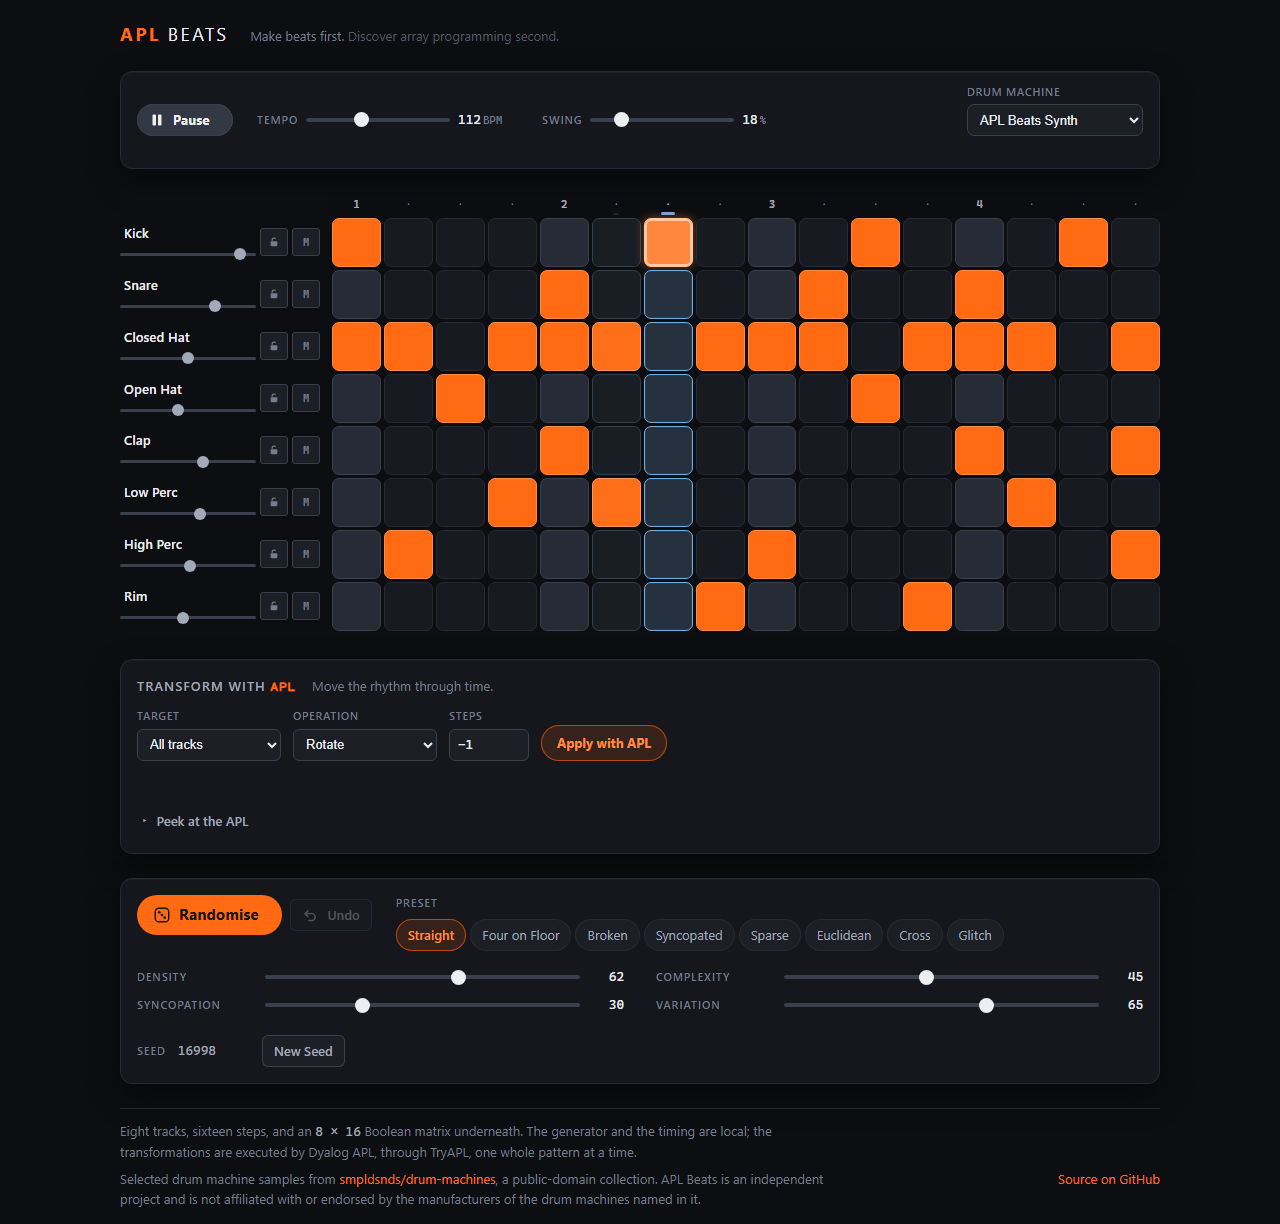
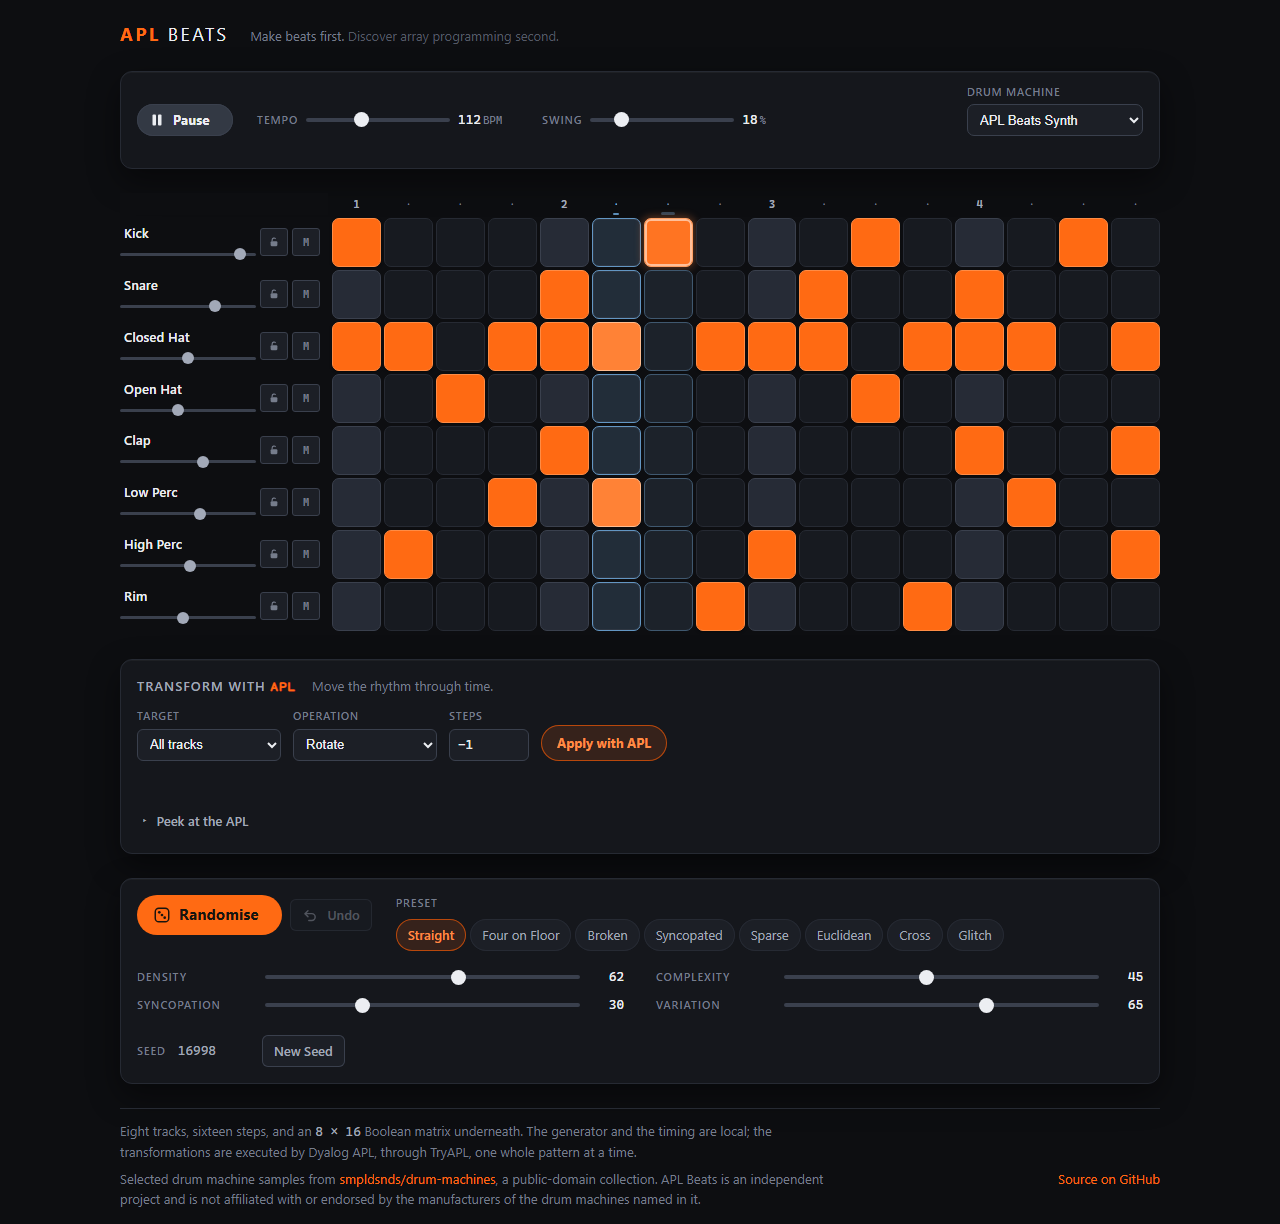
Say what Explore is, and point the live check at it
The README now describes the product as the three steps it actually is — Play, Peek, Explore —
because that progression is the whole design and burying it under a feature list would hide the
argument.

The new section is precise about the boundary: what you write, what the application still
provides, that `m` is the current rhythm and `⎕IO←0`, that the result must still be a rhythm
and is refused whole if it is not, that the errors are Dyalog's own and are shown because from
here the mistake is yours, and that nothing is sent until Run is pressed.

It also says what Explore will not do, including the one that matters most: it is not a
security sandbox and does not pretend to be one.

There is no Examples menu, and the README says why rather than leaving its absence to be
noticed. The Operation control already loads four real working expressions into the editor,
which is the same job a curated list would do; a second list beside it would be a busier panel
for no new capability. Six expressions worth trying are documented instead, and every one of
them was reviewed as a grid before being written down — `npm run review:transforms -- --explore`
prints them. `~m[2;]` puts the open hat in exactly the gaps the closed hat leaves, and
`m[0;]∧~m[1;]` builds a rim from two other rows; both keep the kick on one and the backbeat
intact, which is the test that matters.

The production verifier's single live request now goes through Explore rather than a fixed
[…]

Changed region(s): [[0.4375, 0.1552, 0.5625, 0.3105], [0.4375, 0.3415, 0.5312, 0.4346], [0.4688, 0.4657, 0.5312, 0.4967]]

diff --git a/scripts/review-transforms.ts b/scripts/review-transforms.ts
@@ -262,6 +262,107 @@ function staggerSweep(before: Pattern): void {
   console.log('');
 }
 
+/* ------------------------------------------------------------------------- */
+
+/**
+ * Hand-written expressions, reviewed the way the built-in operations were.
+ *
+ * Stage 5 lets somebody write their own APL, which raises a question no test can answer: does
+ * writing your own actually produce rhythms worth having, or only rhythms that parse? So a few
+ * representative expressions are modelled here in TypeScript and printed as grids — the same
+ * arrangement `reference.ts` uses, and for the same reason. **Nothing here runs in the
+ * application.** These are a reading aid; the real expressions go to Dyalog.
+ *
+ * They were chosen to cover the four things somebody is likely to try in their first ten
+ * minutes: change a number, build a row from a formula, build one track out of another, and
+ * combine two rows.
+ */
+interface Experiment {
+  /** The APL, exactly as it would be typed into the editor. */
+  readonly apl: string;
+  readonly target: Target;
+  readonly note: string;
+  /** What that APL means, modelled locally. Review only. */
+  readonly run: (pattern: Pattern) => readonly boolean[];
+}
+
+const rotateRow = (row: readonly boolean[], by: number): boolean[] => {
+  const n = row.length;
+  const shift = ((Math.trunc(by) % n) + n) % n;
+  return Array.from({ length: n }, (_unused, index) => row[(index + shift) % n] === true);
+};
+
+const EXPERIMENTS: readonly Experiment[] = [
+  {
+    apl: '¯2⌽m[0;]',
+    target: KICK,
+    note: 'the first experiment: change the number, and the kick moves an eighth instead of a sixteenth',
+    run: (m) => rotateRow(m[KICK] ?? [], -2),
+  },
+  {
+    apl: '0=3|⍳16',
+    target: 2,
+    note: 'a formula rather than a sample of an existing row: every third sixteenth on the hat',
+    run: () => Array.from({ length: STEP_COUNT }, (_unused, step) => step % 3 === 0),
+  },
+  {
+    apl: 'm[1;]∨2⌽m[1;]',
+    target: 4,
+    note: 'a clap built out of the snare, doubled an eighth earlier',
+    run: (m) => {
+      const snare = m[SNARE] ?? [];
+      const early = rotateRow(snare, 2);
+      return snare.map((cell, step) => cell || early[step] === true);
+    },
+  },
+  {
+    apl: 'm[0;]∧~m[1;]',
+    target: 7,
+    note: 'a rim wherever the kick plays and the snare does not — one row from two',
+    run: (m) => (m[KICK] ?? []).map((cell, step) => cell && (m[SNARE] ?? [])[step] !== true),
+  },
+  {
+    apl: '~m[2;]',
+    target: 3,
+    note: 'the open hat in the gaps the closed hat leaves: the complement of a row',
+    run: (m) => (m[2] ?? []).map((cell) => !cell),
+  },
+  {
+    apl: '16⍴1 0 0',
+    target: 6,
+    note: 'reshape a short figure to fill the bar, which is where ⍴ starts to feel useful',
+    run: () => Array.from({ length: STEP_COUNT }, (_unused, step) => step % 3 === 0),
+  },
+];
+
+function exploreReview(before: Pattern): void {
+  console.log('');
+  console.log('══ Explore: hand-written expressions');
+  console.log('');
+  console.log('  Modelled locally for reading. The real ones are executed by Dyalog.');
+  console.log('');
+  console.log('    before');
+  for (const line of gridText(
+    before,
+    TRACKS.map(() => false),
+  ))
+    console.log(line);
+  console.log(`    ${spineText(spineOf(before))}`);
+
+  for (const experiment of EXPERIMENTS) {
+    const row = experiment.run(before);
+    const track = experiment.target === 'all' ? 0 : experiment.target;
+    const after = before.map((existing, index) => (index === track ? [...row] : existing));
+
+    console.log('');
+    console.log(`  ── ${experiment.apl}   → ${targetName(experiment.target)}`);
+    console.log(`     ${experiment.note}`);
+    for (const line of gridText(after, changedRows(before, after))) console.log(line);
+    console.log(`    ${spineText(spineOf(after))}`);
+  }
+  console.log('');
+}
+
 /** A row the visitor locked, and what each operation does to it. */
 function lockReview(before: Pattern): void {
   console.log('');
@@ -291,6 +392,8 @@ const groove = createInitialGroove();
 
 if (wants('--stagger')) {
   staggerSweep(groove);
+} else if (wants('--explore')) {
+  exploreReview(groove);
 } else if (wants('--locks')) {
   lockReview(groove);
 } else {

diff --git a/README.md b/README.md
@@ -12,6 +12,16 @@ but the whole idea. A rhythm is a rectangular array, array languages are good at
 arrays — and pressing **Apply with APL** sends that matrix to real
 [Dyalog APL](https://www.dyalog.com/) and plays back the matrix that comes home.
 
+The whole product is three steps, and they are meant to be taken in order:
+
+**Play.** Make a beat. Press Randomise until one of them is yours. Choose a drum machine.
+
+**Peek.** Look at the APL behind the operation you just used. `¯1⌽m[0;]` — that line moved your
+kick, and the rhythm it moved really is an array.
+
+**Explore.** Change the line. Change `¯1` to `¯2` and run it: the kick moves an eighth instead
+of a sixteenth. Then realise the number was never the only thing you could change.
+
 > **What runs where, precisely.** Generation and timing are local TypeScript and Web Audio. The
 > four transformations are executed by Dyalog APL, remotely, via [TryAPL](https://tryapl.org/).
 > There is no local fallback for them: if APL is unavailable the transform does not happen and the
@@ -39,6 +49,7 @@ else: APL sees the same matrix whichever machine is playing it.
 
 - [What it does](#what-it-does)
 - [Transform with APL](#transform-with-apl)
+- [Explore the APL](#explore-the-apl)
 - [The generator](#the-generator)
 - [The four macros](#the-four-macros)
 - [Presets](#presets)
@@ -72,6 +83,8 @@ else: APL sees the same matrix whichever machine is playing it.
   and never the rhythm.
 - **Four transformations, executed in APL.** Rotate, Reverse, Periodic and Euclidean, on one
   track or on the whole matrix — with the expression that ran on show if you want to see it.
+- **And then you can edit that expression.** Write your own APL against the current rhythm and
+  run it. Real Dyalog, real errors, your beat.
 - **Randomise.** A new take on the groove you have, as far away as Variation allows.
 - **New Seed.** A completely new groove, ignoring Variation.
 - **Four macros** — Density, Complexity, Syncopation, Variation — each with a distinct
@@ -274,6 +287,130 @@ and a transform is not the generator: it is you, naming a row and asking for it 
 one case worth knowing about is an operation on the whole matrix, which touches every row
 including a locked one — that is what "All tracks" means, and it is the visitor's choice.
 
+## Explore the APL
+
+Peek shows you the expression. Explore lets you change it.
+
+```
+CORE APL
+
+¯1⌽m[0;]
+
+⌽ rotates an array. A negative amount moves it later…
+
+[ Edit this APL ]
+```
+
+<img src="docs/screenshot-explore.png" alt="APL Beats with the Explore editor open, showing a hand-written APL expression and a glyph strip" width="820" />
+
+Pressing that opens an editor holding **exactly** the expression Peek was displaying — not a
+teaching approximation, not a separate example. Change `¯1` to `¯2`, press **Run this APL**, and
+the kick moves two sixteenths instead of one. That is the entire feature, and everything below is
+detail.
+
+### What you write, and what the application still provides
+
+You write **one expression**. APL Beats writes everything around it:
+
+```apl
+⎕IO←0 ⋄ m←8 16⍴1 0 0 0 … ⋄ m[0;]←(your expression) ⋄ m
+```
+
+- **`m` is the current rhythm** — an 8 × 16 matrix of Booleans, one row per track. You never
+  declare it, and you never paste 128 numbers into anything.
+- **`⎕IO←0`**, so tracks and steps count from zero, exactly as the grid does.
+- **Result goes to** decides where your answer is installed. Choose a track and your expression
+  must return 16 values; choose _All tracks_ and it must return an 8 × 16 matrix.
+
+The parentheses matter more than they look: bracketing your expression means whatever precedence
+you wrote cannot reach the assignment, so almost nothing has to be forbidden.
+
+### It is genuinely your APL that runs
+
+Nothing here is simulated. The expression is wrapped, posted to TryAPL, evaluated by Dyalog, and
+the matrix that comes back becomes the rhythm — the same path the four fixed operations use, in
+the same execution lane, with the same validation. There is no local fallback, and no TypeScript
+quietly standing in for anything.
+
+Which means **the errors are real too**, and Stage 5 shows them. Stage 3 could keep interpreter
+detail off screen because the application wrote its own APL and any error was its own bug; here
+the mistake is yours, and "APL could not run that" without the word `RANK` and a caret pointing
+at the glyph would be useless:
+
+```
+RANK ERROR: Mismatched left and right argument ranks
+      m←(2 3⍴m)
+         ∧
+```
+
+The beat is untouched, your code is untouched, and there is nothing to undo.
+
+### A few things to try
+
+Each of these is one line, and each does something you can hear. The four fixed operations are
+also a source of starting points: change the Operation and the editor follows, until you edit it.
+
+| Expression      | Result goes to | What happens                                            |
+| --------------- | -------------- | ------------------------------------------------------- |
+| `¯2⌽m[0;]`      | Kick           | The kick an eighth later instead of a sixteenth.        |
+| `0=3\|⍳16`      | Closed Hat     | Every third sixteenth: three against four.              |
+| `~m[2;]`        | Open Hat       | The open hat in exactly the gaps the closed hat leaves. |
+| `m[1;]∨2⌽m[1;]` | Clap           | A clap built from the snare, doubled an eighth early.   |
+| `m[0;]∧~m[1;]`  | Rim            | A rim wherever the kick plays and the snare does not.   |
+| `16⍴1 0 0`      | High Perc      | A three-step figure reshaped to fill the bar.           |
+
+There is deliberately **no Examples menu**. The Operation control already loads four real,
+working expressions into the editor, and a second list beside it would be a second thing to
+maintain and a busier panel for no new capability.
+
+### Typing APL without an APL keyboard
+
+A compact strip of the glyphs these rhythms actually need — `¯ ⌽ ⍳ ⍴ ⍉ ↑ ↓ | × = ≠ > ~ ∨ ∧ / ,` —
+inserts at the caret and replaces the selection, exactly as typing would. It is not a virtual
+keyboard, and anyone with a real APL layout can ignore it. Every button is named as well as drawn,
+so it is usable without seeing it.
+
+**Ctrl+Enter** or **Cmd+Enter** runs the expression. Plain Enter does not: this is a box you write
+in, and a stray newline should not spend somebody else's compute.
+
+### What Explore will not do
+
+- **It is one expression, not a workspace.** No `⋄`, no newlines, no comments, no `)` session
+  commands — each of those would change what the statements around your expression mean, and each
+  is refused locally with a sentence saying why, before anything is sent.
+- **It is not a security sandbox, and does not pretend to be one.** TryAPL is the sandbox and
+  refuses what it refuses; a blacklist here would be theatre, and the kind that gets trusted.
+- **The result must still be a rhythm.** Exactly 8 × 16, exactly zeros and ones. Anything else is
+  refused whole — never truncated, never reshaped "helpfully", never coerced.
+- **A generous but finite length**: 320 characters, counted in glyphs.
+
+### Your draft is yours
+
+The editor follows the fixed controls only until you touch it. After that it is a draft, and
+changing the Operation, a parameter or the Target will not overwrite it — only **Load current
+transform**, which says exactly what it does. The draft survives a reload, under its own storage
+key, and **never runs itself on restore**.
+
+### Nothing is sent until you press Run
+
+Opening Peek, opening Explore, typing, deleting, inserting a glyph, changing the target, loading
+the current transform, restoring a draft, playing, pausing — none of these makes a request. One
+press of Run, or one Ctrl+Enter, makes at most one. Holding the shortcut down makes one.
+
+Explore and **Apply with APL** share **one execution lane**: while either is running the other's
+button is disabled, so there is never more than one request in flight from this application.
+
+### A result can never lie about the code that produced it
+
+Two things can move while a request is out, and both are handled the same way — the answer is
+discarded and nothing is claimed:
+
+- **the pattern**, if you edit a cell, press Randomise or undo something;
+- **the code**, if you carry on writing while your last run is still in the air.
+
+Editing during a run is allowed on purpose. The network should not freeze somebody's writing, so
+it is the reply that gets thrown away rather than the keyboard that gets locked.
+
 ## The generator
 
 Every groove is a pure function of its inputs:
@@ -393,11 +530,11 @@ transform is one Undo. There is no Redo yet.
 Named because a README that lists ambitions alongside features cannot be trusted about
 either. None of the following exists:
 
-- **An APL editor.** You cannot type your own expressions. The four operations are built
-  from templates with clamped numbers, and nothing from the interface reaches executable
-  source as text.
+- **A full APL workspace.** Explore runs one expression. No definitions, no multiple
+  statements, no session commands, no files.
 - **APL generation.** The generator is still local TypeScript; only the transformations run
-  in APL.
+  in APL. Moving it is a request-budget problem rather than a translation one — see
+  [Where APL goes next](#where-apl-goes-next).
 - **Offline transforms.** There is no local fallback, on purpose. No APL, no transform.
 - Sharing, WAV export, MIDI, accounts.
 - More than one bar; variable track lengths; song arrangement.
@@ -453,6 +590,7 @@ src/
     wire.ts        the TryAPL Exec format, and the eleven APL error names
     matrix.ts      a pattern → an APL literal, and eight strict lines → a pattern
     operations.ts  the four operations: their APL, their ranges, their explanations
+    custom.ts      wrapping a hand-written expression, and the few inputs that cannot be
     client.ts      the only network request in the application
     transform.ts   the cache, and the staleness rule
     useTransform.ts  when a request may happen. The whole promise lives here
@@ -899,6 +1037,7 @@ npm run review:transforms                  every operation, on the opening groov
 npm run review:transforms -- --generated    and on generated bars from each preset
 npm run review:transforms -- --stagger      the operation that was built and rejected
 npm run review:transforms -- --locks        what a whole-matrix operation touches
+npm run review:transforms -- --explore      hand-written expressions, reviewed the same way
 ```
 
 Beside each grid it prints whether the kick is still on one, how many of the four beats are
@@ -1012,8 +1151,8 @@ description, and it names exactly one external origin.
 ## Testing
 
 ```bash
-npm test          # 436 unit and component tests, in jsdom
-npm run test:e2e  # 174 end-to-end runs across three browser projects
+npm test          # 500 unit and component tests, in jsdom
+npm run test:e2e  # 231 end-to-end runs across three browser projects
 ```
 
 **Not one of them makes a live TryAPL request.** The unit tests inject a fake client; the
@@ -1043,6 +1182,12 @@ superseded request is deliberately silent, so a visitor on Safari whose transfor
 shown nothing at all. The client now keeps its own note of why it aborted, which is both simpler
 and true everywhere.
 
+Stage 5's are mostly about counts too, for a sharper reason: it puts a text box next to a
+promise about network requests, and a box somebody types in is a box that could fire a request per
+keystroke. So the tests type, insert glyphs, change targets, open and close things, hold Ctrl+Enter
+down, and assert zero — plus two staleness cases, because the code can now move under a reply as
+well as the pattern.
+
 Stage 4's tests are mostly about _counts_: how many requests a kit change makes, how many times a
 sample is decoded, and how many parts of the creative state moved when the machine changed. The
 answer to the last is always zero, and it is checked by reading the whole interface — every cell,
@@ -1067,11 +1212,12 @@ deploy step abandons itself if `main` has moved on. The published base path come
 
 ## Where APL goes next
 
-APL now transforms. It does not yet generate, and it never will time.
+APL now transforms, and you can now write the transformation. It does not yet generate, and it
+never will time.
 
 ```
-now:     TypeScript generates  →  APL transforms  →  Web Audio plays
-later:   APL generates         →  APL transforms  →  Web Audio plays
+now:     TypeScript generates  →  APL transforms, yours or ours  →  Web Audio plays
+later:   APL generates         →  APL transforms                 →  Web Audio plays
 never:   APL times anything
 ```
 
